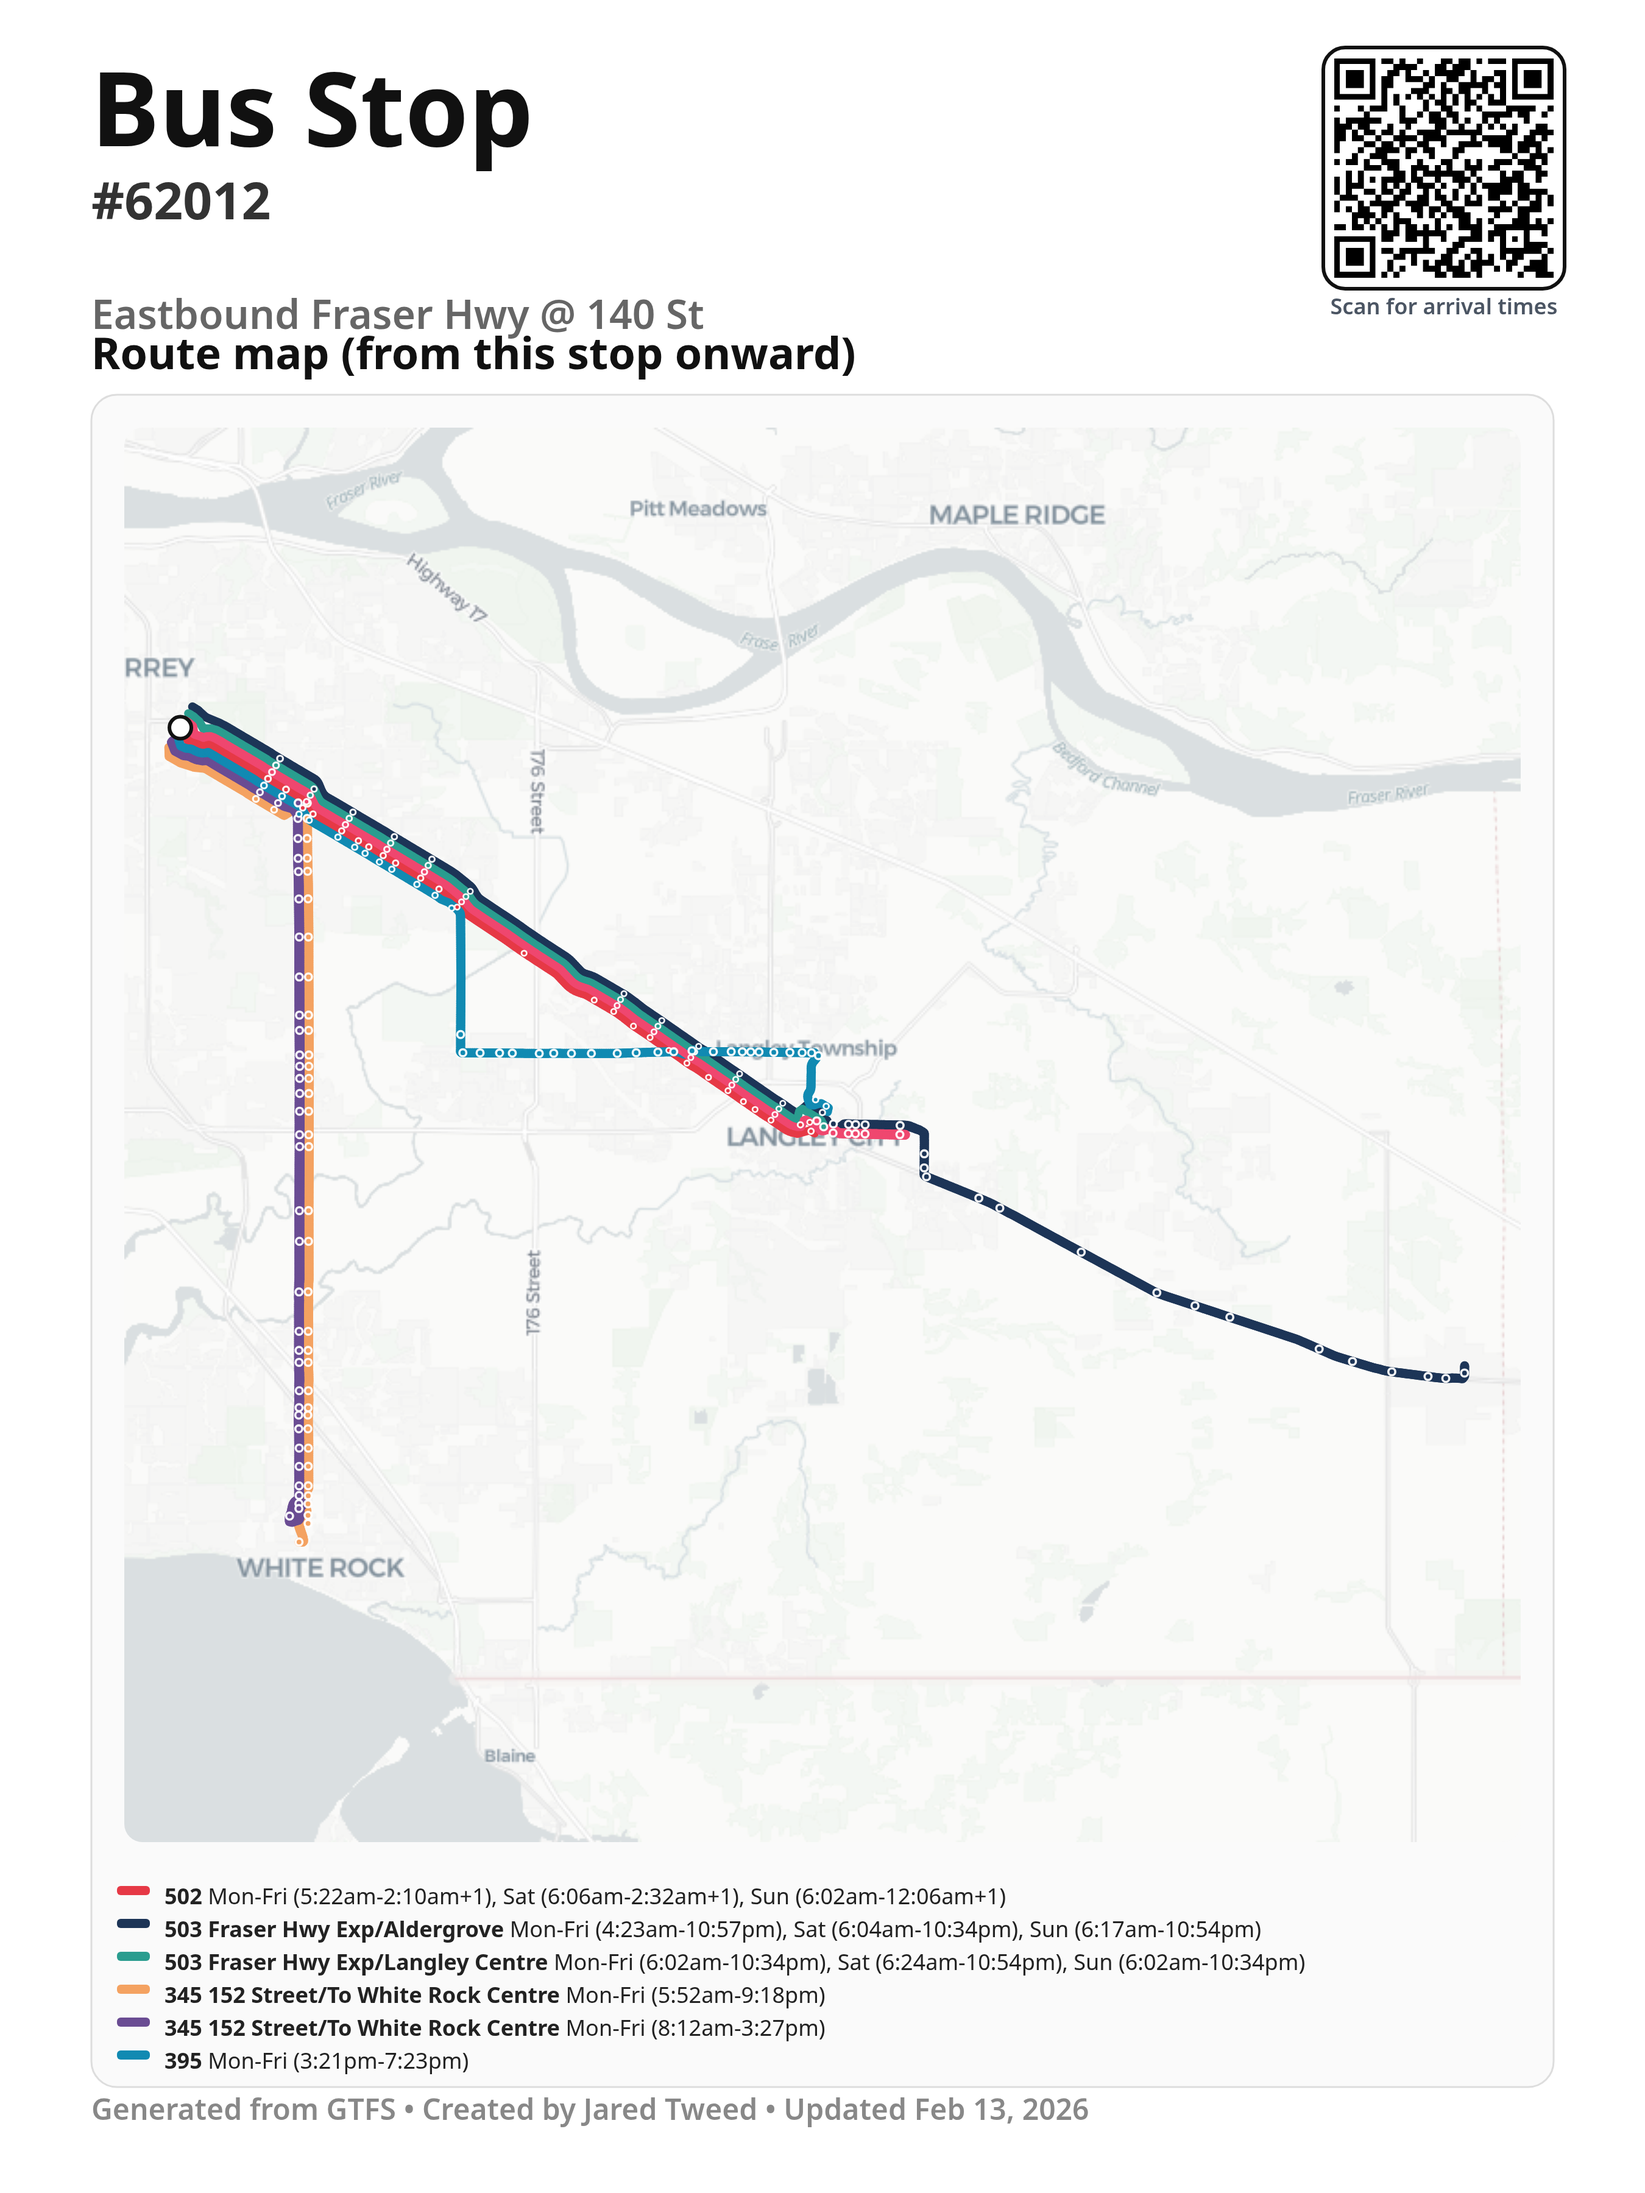
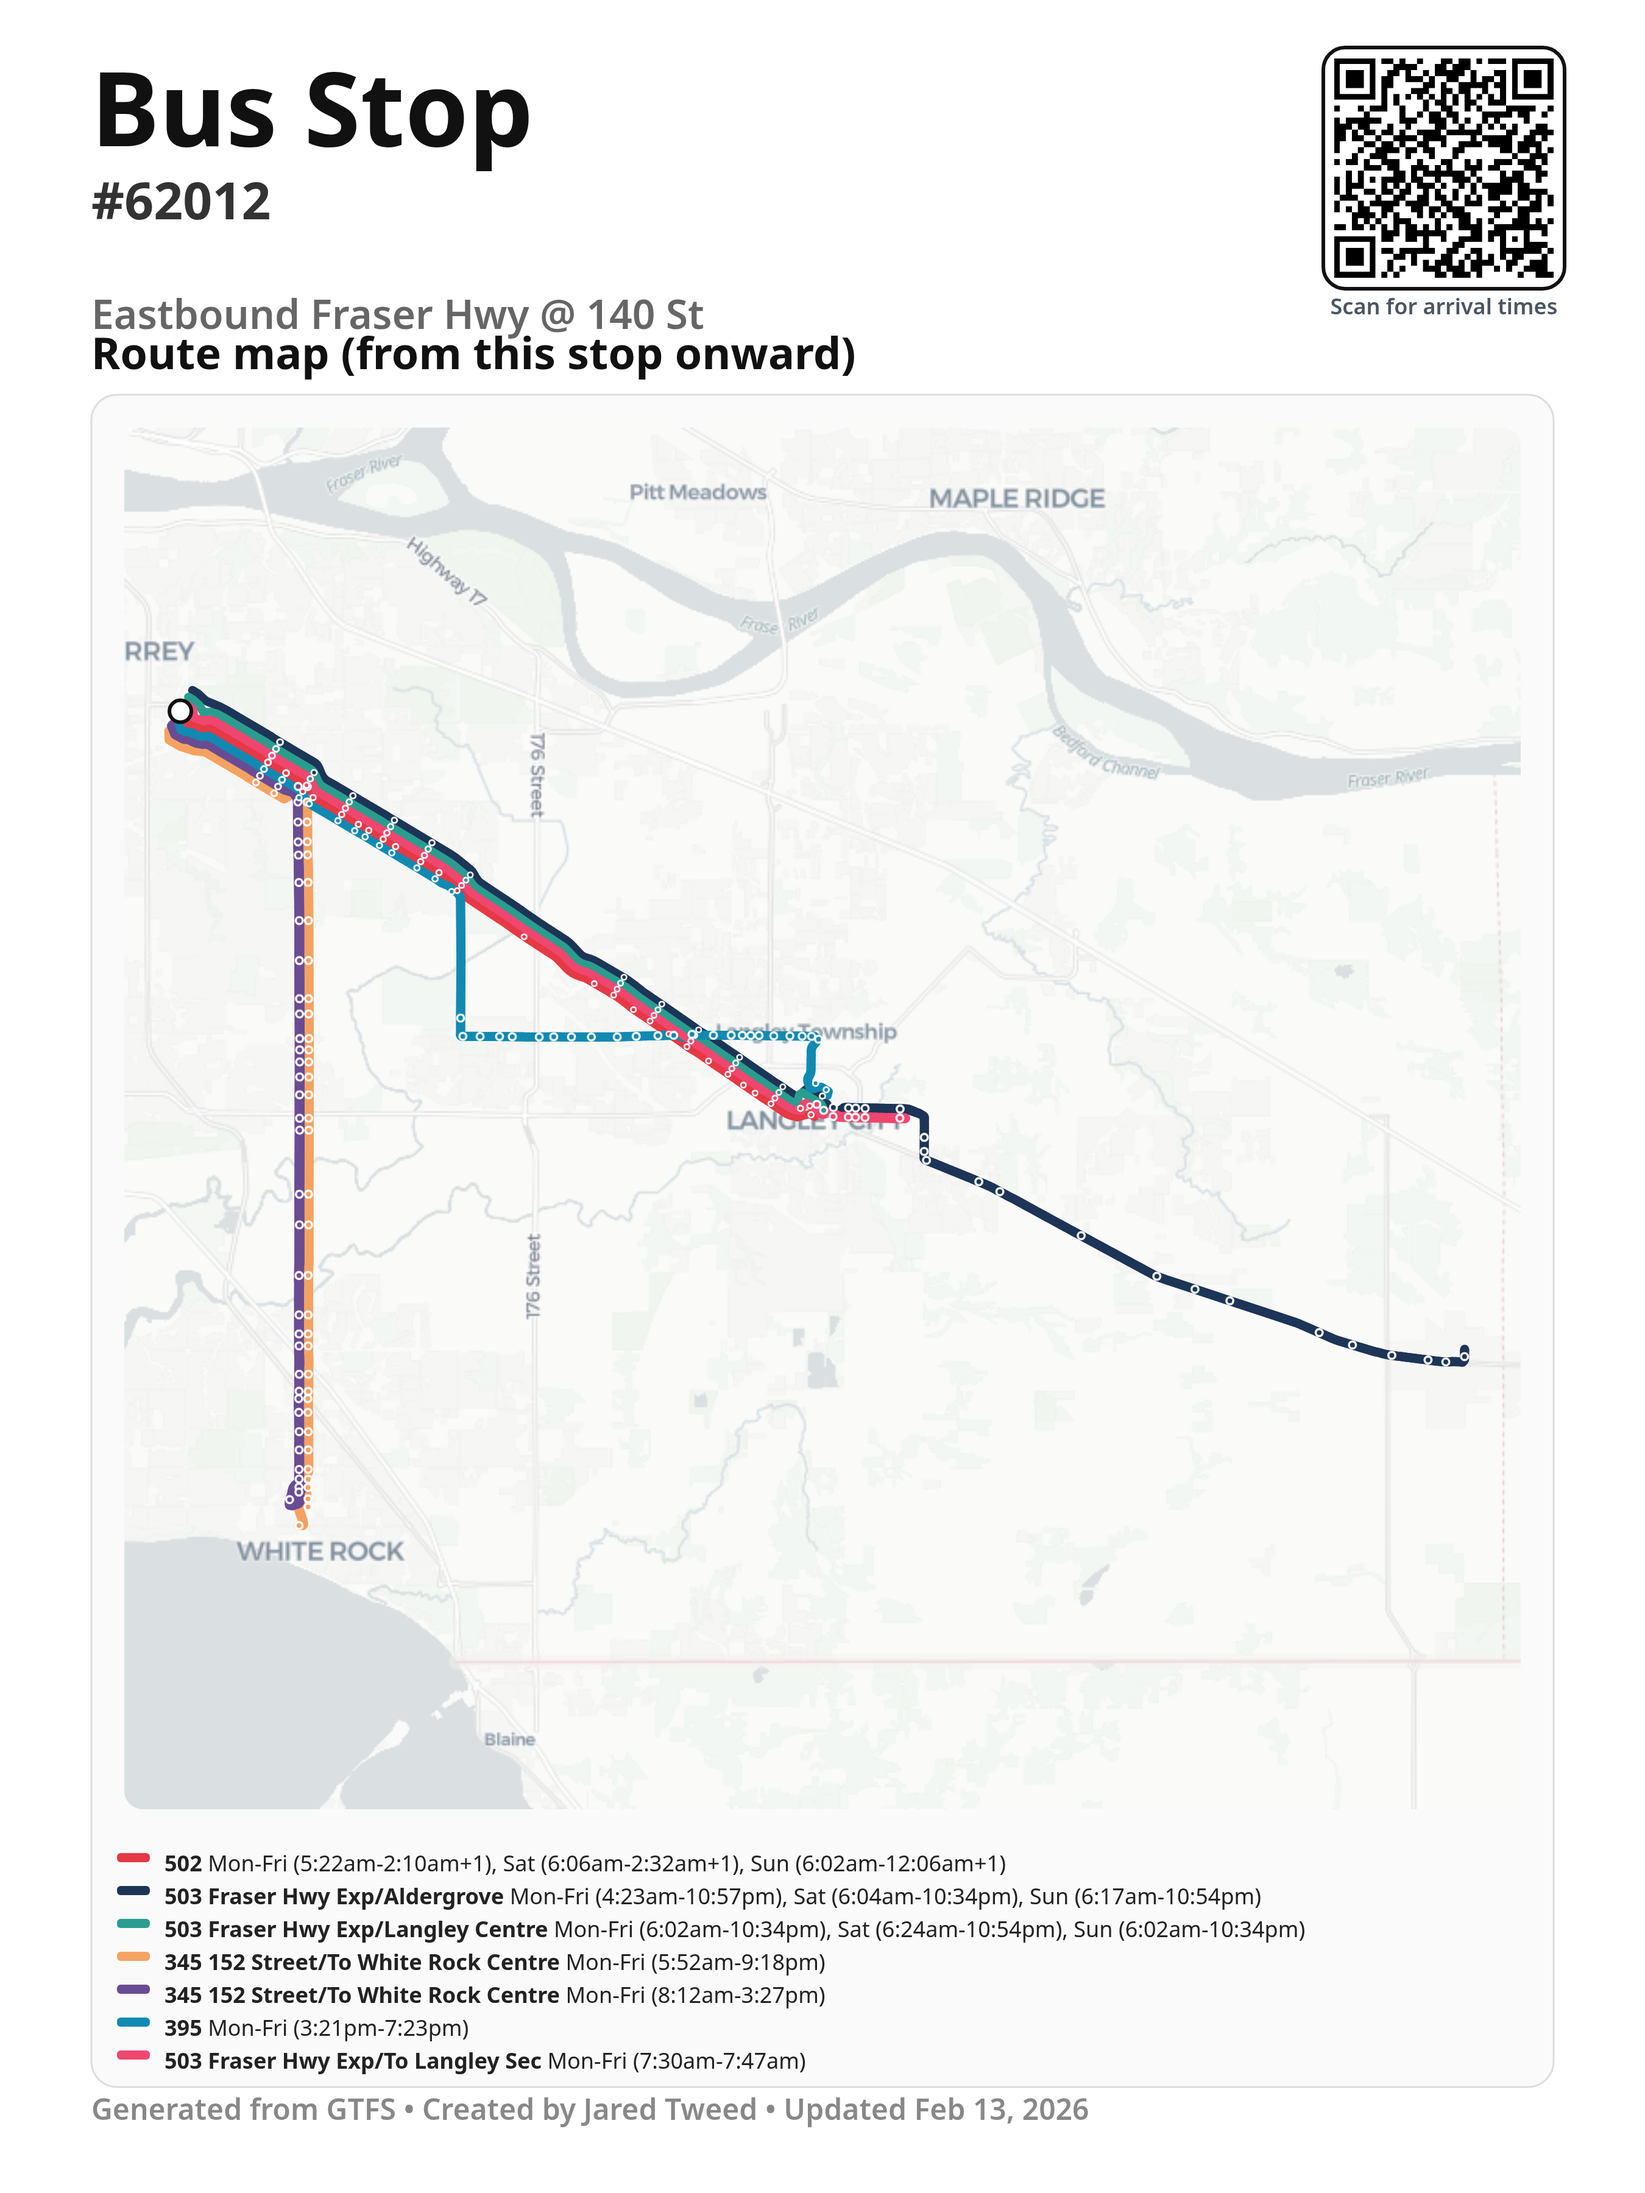
made legend show all lines

diff --git a/app.js b/app.js
@@ -165,7 +165,7 @@ const SIGN_TEMPLATE = Object.freeze({
     baselineInset: 40,
   }),
   legend: Object.freeze({
-    maxItems: 6,
+    maxItems: Number.POSITIVE_INFINITY,
     maxHeight: 220,
     lineHeight: 16,
     itemGap: 2,
